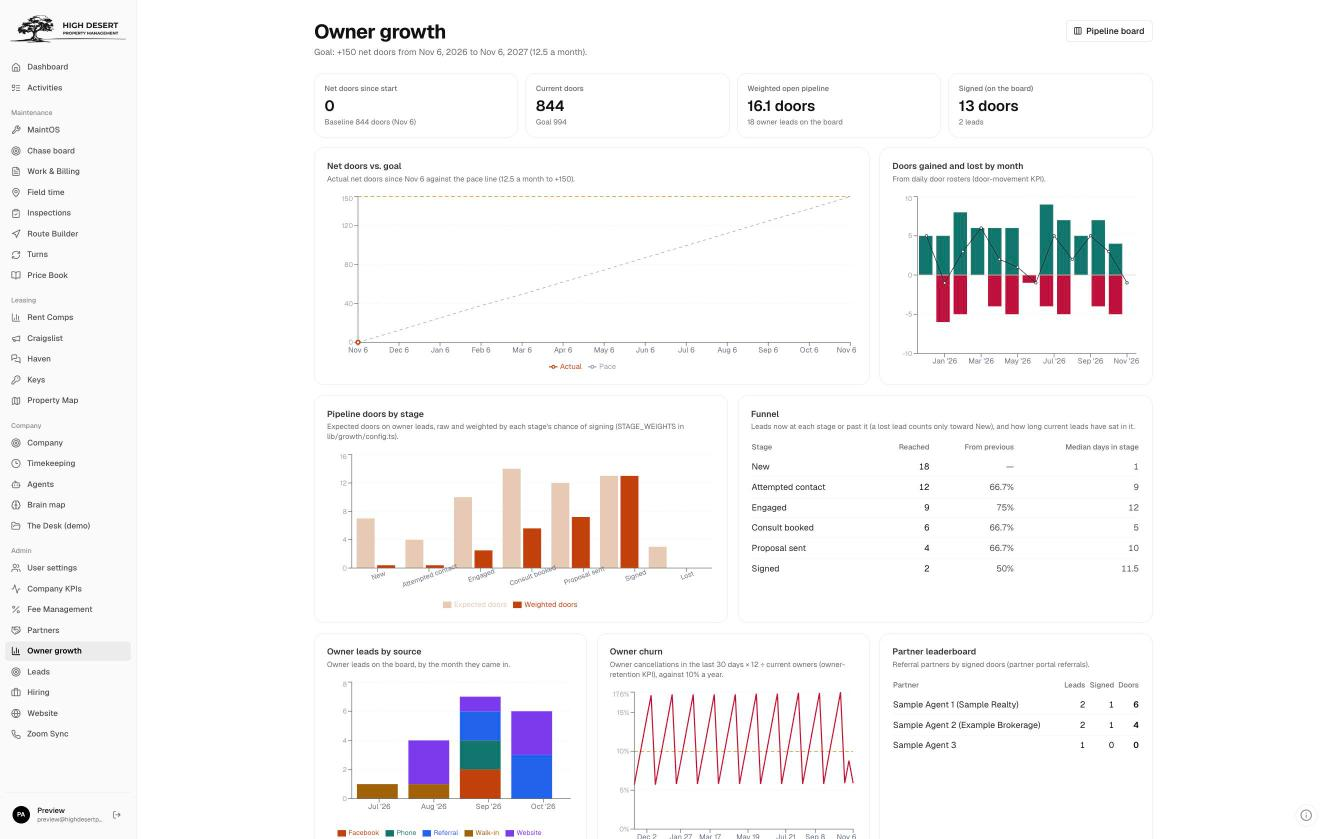
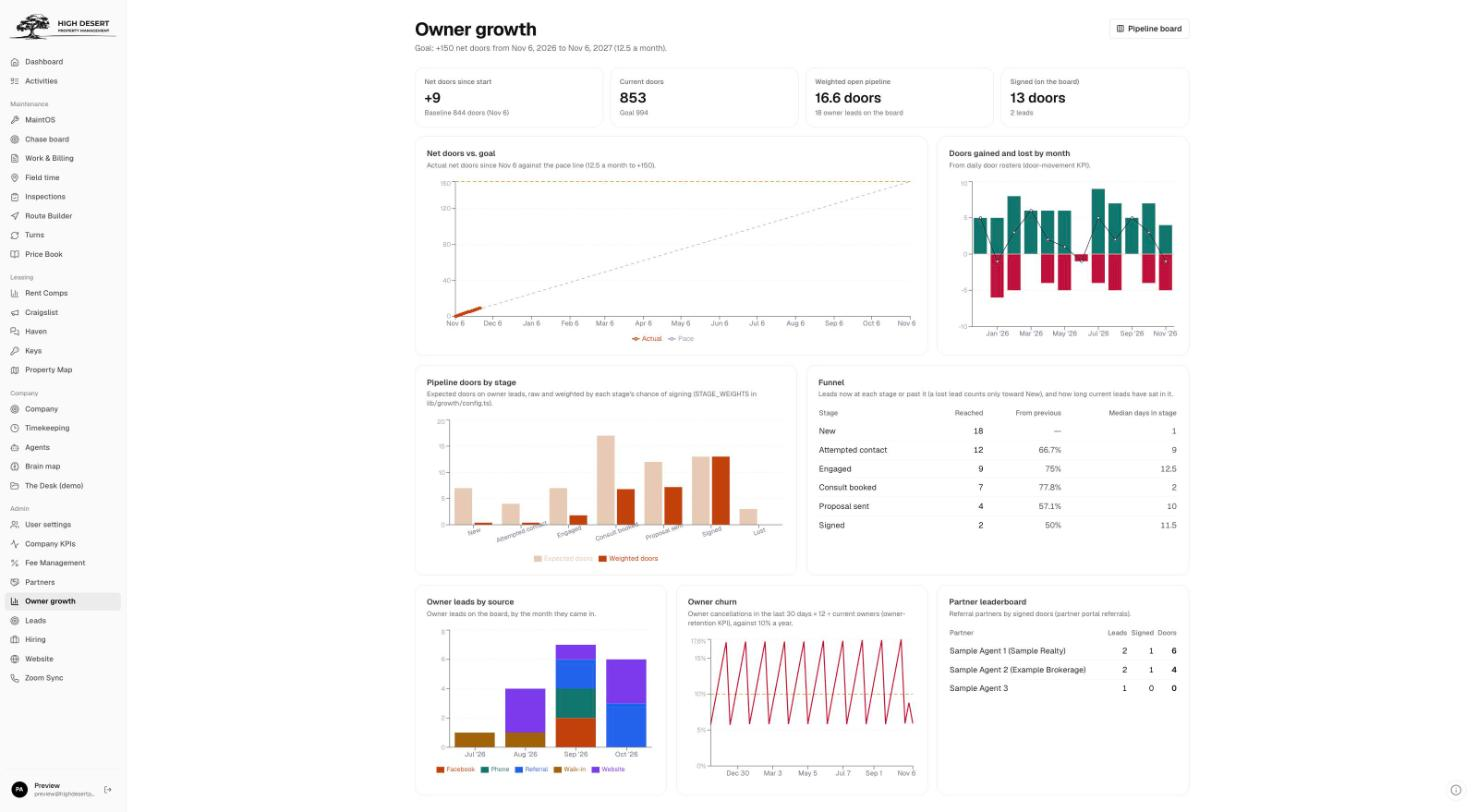
Growth: time-scaled goal chart; read the property from the lead detail's subjectProperty
Review fixes for PR 235:
- The net doors chart used a category x axis, so a day between two snapshots
  took as much width as a month between goal points. It now uses a time scale
  from the start date to the end date, with ticks on each month.
- The website's lead detail (GET /api/os/leads/[id]) keeps the property nested
  in subjectProperty; only the board feed and PATCH flatten it. The side panel
  now reads subjectProperty (detailProperty), and LeadDetail is typed apart
  from BoardLead. Test uses the website's actual detail shape.

diff --git a/app/growth/dashboard.tsx b/app/growth/dashboard.tsx
@@ -21,6 +21,10 @@ import { PageContainer, PageHeader } from "@/components/ui/page-header";
 import { Button } from "@/components/ui/button";
 import { SOURCE_LABELS } from "@/lib/growth/lead-api";
 import type { GrowthSummary } from "@/lib/growth/data";
+import { addMonths } from "@/lib/growth/metrics";
+
+const dayMs = (d: string) => Date.parse(`${d.slice(0, 10)}T00:00:00Z`);
+const fmtTick = (t: number) => new Date(t).toLocaleDateString("en-US", { month: "short", day: "numeric", timeZone: "UTC" });
 
 const GRID_PROPS = { strokeDasharray: "3 3", stroke: "rgba(0,0,0,0.05)", vertical: false };
 const X_TICK = { fontSize: 12, fill: "#6b7280" };
@@ -130,15 +134,25 @@ export function GrowthDashboard() {
             >
               <div className="h-72">
                 <ResponsiveContainer width="100%" height="100%">
-                  <LineChart data={data.doors?.series ?? []} margin={{ top: 5, right: 10, left: -10, bottom: 0 }}>
+                  {/* Time-scaled x axis: daily snapshots and the monthly goal points sit at their real dates. */}
+                  <LineChart data={(data.doors?.series ?? []).map((p) => ({ ...p, t: dayMs(p.date) }))} margin={{ top: 5, right: 10, left: -10, bottom: 0 }}>
                     <CartesianGrid {...GRID_PROPS} />
-                    <XAxis dataKey="date" tickFormatter={fmtDay} tick={X_TICK} minTickGap={24} />
+                    <XAxis
+                      dataKey="t"
+                      type="number"
+                      scale="time"
+                      domain={[dayMs(s.startDate), dayMs(s.endDate)]}
+                      ticks={Array.from({ length: s.months + 1 }, (_, i) => dayMs(addMonths(s.startDate, i)))}
+                      tickFormatter={fmtTick}
+                      tick={X_TICK}
+                      minTickGap={24}
+                    />
                     <YAxis tick={Y_TICK} domain={[(min: number) => Math.min(0, min), (max: number) => Math.max(s.targetNetDoors, max)]} />
-                    <Tooltip contentStyle={TOOLTIP_STYLE} labelFormatter={(d) => fmtDay(String(d))} />
+                    <Tooltip contentStyle={TOOLTIP_STYLE} labelFormatter={(t) => fmtTick(Number(t))} />
                     <Legend wrapperStyle={{ fontSize: 12 }} />
                     <ReferenceLine y={s.targetNetDoors} stroke="#d97706" strokeDasharray="6 4" />
                     <Line name="Pace" dataKey="pace" stroke="#9ca3af" strokeDasharray="5 5" dot={false} isAnimationActive={false} />
-                    <Line name="Actual" dataKey="actual" stroke="#c2410c" strokeWidth={2.5} dot={{ r: 3 }} connectNulls isAnimationActive={false} />
+                    <Line name="Actual" dataKey="actual" stroke="#c2410c" strokeWidth={2.5} dot={{ r: 1.5 }} connectNulls isAnimationActive={false} />
                   </LineChart>
                 </ResponsiveContainer>
               </div>

diff --git a/lib/growth/__tests__/growth.test.ts b/lib/growth/__tests__/growth.test.ts
@@ -1,7 +1,7 @@
 import { describe, it, expect } from 'vitest';
 import { computeDoorMovement } from '../../door-movement';
 import { STAGE_WEIGHTS, GROWTH_SETTINGS } from '../config';
-import { buildColumns, canMove, daysInStage, filterLeads, filterOptions, replaceLead, sourceLabel } from '../board';
+import { buildColumns, canMove, daysInStage, detailProperty, filterLeads, filterOptions, replaceLead, sourceLabel } from '../board';
 import {
   addMonths,
   firstOnOrAfter,
@@ -17,7 +17,7 @@ import {
   partnerLeaderboard,
   pipelineByStage,
 } from '../metrics';
-import type { BoardLead } from '../lead-api';
+import type { BoardLead, LeadDetailResponse } from '../lead-api';
 
 let nextId = 1;
 function lead(over: Partial<BoardLead> = {}): BoardLead {
@@ -223,5 +223,33 @@ describe('dashboard metrics', () => {
       { partnerId: 'p2', name: 'Partner Two', leads: 1, signedLeads: 1, doors: 6 },
       { partnerId: 'p1', name: 'Partner One (Firm A)', leads: 2, signedLeads: 1, doors: 3 },
     ]);
+  });
+});
+
+describe('lead detail contract (GET /api/os/leads/[id])', () => {
+  // Shaped like hdpm-web PR 75's detail route: the property stays nested in
+  // subjectProperty; there is no flat propertyAddress / town.
+  const response = {
+    lead: {
+      id: 1, name: 'Test Owner', email: null, phone: null, status: 'engaged', leadType: 'owner', source: 'website',
+      assignedTo: null, nextFollowUpAt: null, createdAt: '2026-10-01T00:00:00Z', isDuplicateOfLeadId: null,
+      preferredLanguage: null, doNotContact: false, sourceDetail: null, expectedDoors: 3, statusEnteredAt: '2026-11-01T00:00:00Z',
+      stageReason: null, notesSummary: null, message: null, desiredMoveInDate: null, monthlyBudgetMin: null, monthlyBudgetMax: null,
+      subjectProperty: { address: '100 Example St', town: 'Bend', bedrooms: 3 },
+      rentAnalysisStatus: null, rentAnalysisShortUrl: null, lastContactedAt: null, attribution: null, allowedStatuses: ['consult_booked'],
+    },
+    activities: [],
+  };
+  // Extra website fields (bedrooms, attribution, ...) are fine; the required ones must line up.
+  const typed: LeadDetailResponse = response;
+
+  it('shows the nested property address and town', () => {
+    expect(detailProperty(typed.lead)).toBe('100 Example St, Bend');
+    expect('propertyAddress' in response.lead).toBe(false);
+  });
+  it('handles a missing or partial property', () => {
+    expect(detailProperty({ subjectProperty: null })).toBe('');
+    expect(detailProperty({ subjectProperty: { town: 'Redmond' } })).toBe('Redmond');
+    expect(detailProperty({ subjectProperty: { address: ' ', town: null } })).toBe('');
   });
 });

diff --git a/app/growth/pipeline/board.tsx b/app/growth/pipeline/board.tsx
@@ -21,7 +21,7 @@ import { PageContainer, PageHeader } from "@/components/ui/page-header";
 import { Button } from "@/components/ui/button";
 import { STAGE_LABELS } from "@/lib/growth/config";
 import { SOURCE_LABELS, type BoardLead, type BoardResponse, type LeadDetailResponse, type LeadPatch, type LeadPatchResponse, type Person } from "@/lib/growth/lead-api";
-import { buildColumns, canMove, daysInStage, filterLeads, filterOptions, replaceLead, sourceLabel, type BoardColumn, type BoardFilters } from "@/lib/growth/board";
+import { buildColumns, canMove, daysInStage, detailProperty, filterLeads, filterOptions, replaceLead, sourceLabel, type BoardColumn, type BoardFilters } from "@/lib/growth/board";
 
 async function call<T>(path: string, init?: RequestInit): Promise<T> {
   const res = await fetch(`/api/growth/leads/${path}`, init);
@@ -325,7 +325,7 @@ function LeadPanel({ id, users, websiteUrl, onClose, onSaved }: { id: number; us
         <p className="text-sm text-charcoal-500">Loading…</p>
       ) : (
         <div className="space-y-5 text-sm">
-          {(lead.propertyAddress || lead.town) && <p className="text-charcoal-700">{[lead.propertyAddress, lead.town].filter(Boolean).join(", ")}</p>}
+          {detailProperty(lead) && <p className="text-charcoal-700">{detailProperty(lead)}</p>}
 
           <div className="grid gap-3">
             <label className="grid gap-1">

diff --git a/lib/growth/lead-api.ts b/lib/growth/lead-api.ts
@@ -50,9 +50,21 @@ export interface LeadPatchResponse {
   lead: BoardLead;
 }
 
-/** GET /api/os/leads/[id]: the side panel reads only these fields. */
+/**
+ * GET /api/os/leads/[id]: the side panel reads only these fields. Unlike the
+ * board feed and PATCH, the detail keeps the property nested in subjectProperty
+ * (no flat propertyAddress / town); use detailProperty() in board.ts.
+ */
+export interface LeadDetail extends Omit<BoardLead, 'town' | 'propertyAddress'> {
+  subjectProperty: { address?: string | null; town?: string | null } | null;
+  stageReason: string | null;
+  notesSummary: string | null;
+  message: string | null;
+  lastContactedAt: string | null;
+}
+
 export interface LeadDetailResponse {
-  lead: BoardLead & { stageReason: string | null; notesSummary: string | null; message: string | null; lastContactedAt: string | null };
+  lead: LeadDetail;
   activities: { id: number; type: string; direction: string | null; body: string; performedBy: string | null; createdAt: string }[];
 }
 

diff --git a/lib/growth/board.ts b/lib/growth/board.ts
@@ -2,7 +2,13 @@
  * Pipeline board data shaping. Pure functions: no I/O, unit-tested.
  */
 import { BOARD_STAGES, type BoardStage } from './config';
-import { SOURCE_LABELS, type BoardLead } from './lead-api';
+import { SOURCE_LABELS, type BoardLead, type LeadDetail } from './lead-api';
+
+/** The detail endpoint nests the property; flatten it to one display line ('' when none). */
+export function detailProperty(lead: Pick<LeadDetail, 'subjectProperty'>): string {
+  const p = lead.subjectProperty;
+  return [p?.address, p?.town].filter((x): x is string => !!x && x.trim() !== '').join(', ');
+}
 
 const DAY_MS = 86_400_000;
 
